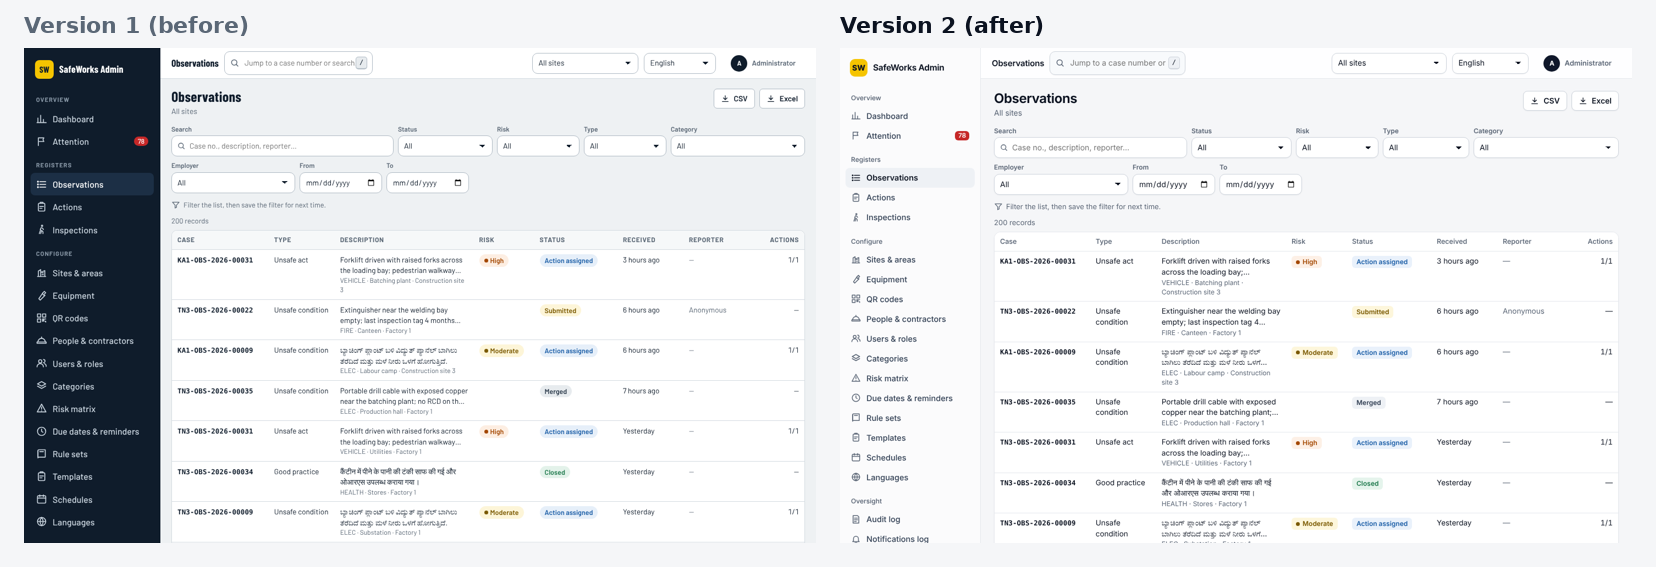
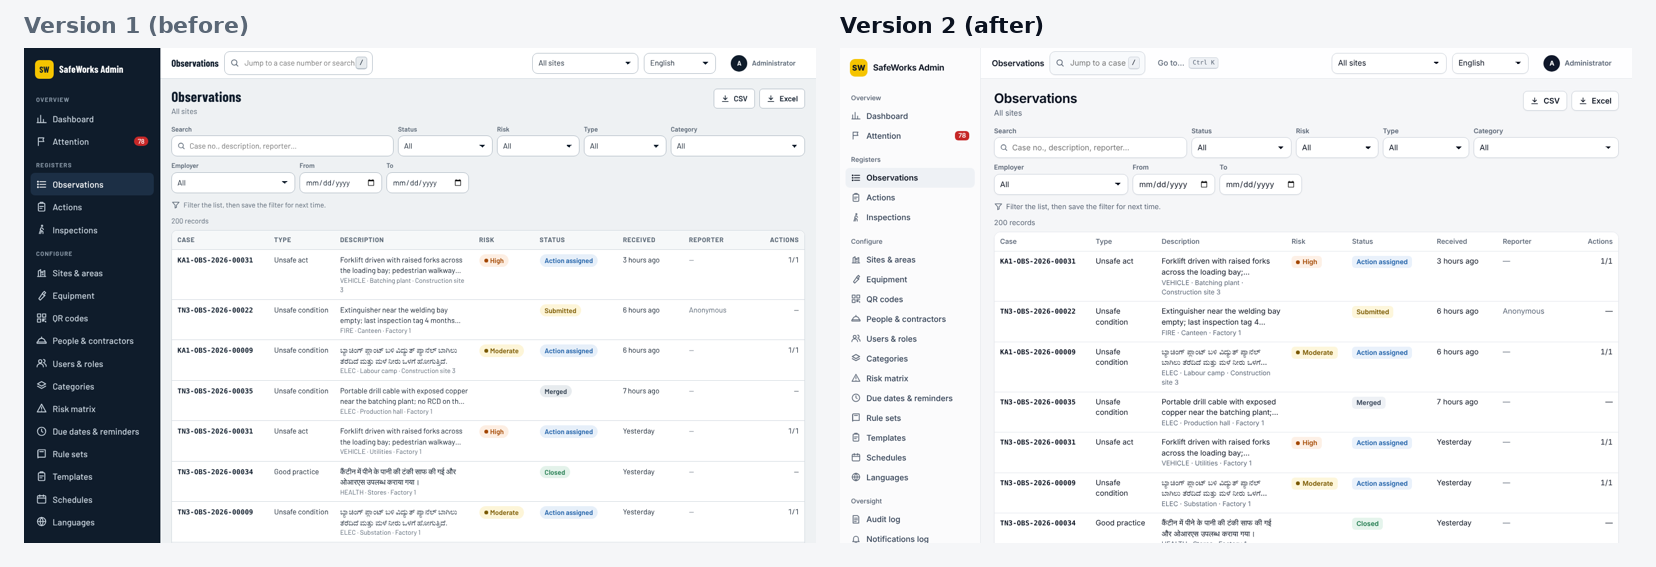
UI v2 test results: 758 of 771 plan cases pass, 0 fail; 125/125 screen cases; 84/84 end-to-end; final comparison images
Claude-Session: https://claude.ai/code/session_01XFtyHRNuE18PRnp5iovukg

Changed region(s): [[0.6467, 0.8395, 0.8623, 0.9594], [0.6775, 0.0899, 0.7391, 0.1199]]

diff --git a/portal/docs/TEST-RESULTS.md b/portal/docs/TEST-RESULTS.md
@@ -1,13 +1,13 @@
 # SafeWorks Portal 2.1: test results
 
-Run on 2026-11-04 19:03 UTC against a fresh demo database with `portal/e2e/run_test_plan.py` (API and timed-job cases), `portal/e2e/ui_plan.cjs` (screen cases) and `portal/e2e/e2e-real.cjs` (end-to-end browser run). Test cases are those of `portal/docs/TEST-PLAN.md`.
+Run on 2026-11-04 19:17 UTC against a fresh demo database with `portal/e2e/run_test_plan.py` (API and timed-job cases), `portal/e2e/ui_plan.cjs` (screen cases) and `portal/e2e/e2e-real.cjs` (end-to-end browser run). Test cases are those of `portal/docs/TEST-PLAN.md`.
 
 | | Count |
 |---|---|
 | Cases in the plan | 771 |
 | Run automatically (API, timed jobs and browser) | 758 |
-| Passed | 757 |
-| Failed | 1 |
+| Passed | 758 |
+| Failed | 0 |
 | Runner error | 0 |
 | Not automated (UI, timing or manual; see the browser run and the list below) | 13 |
 
@@ -756,7 +756,7 @@ Plan corrections (the system was right, the plan was not): EHS-INS-084/085 (only
 | EHS-ADM-261 | Notifications log — Open | PASS |  |
 | EHS-ADM-262 | Console menu → Notifications log ⚠ F5 — Menu item | PASS |  |
 | EHS-ADM-290 | Console menu → Health ⚠ F6 — Menu item | PASS |  |
-| EHS-ADM-291 | Console → any page — Command menu (UI v2) | FAIL | browser: locator.waitFor: Timeout 12000ms exceeded. Call log: [2m - waiting for locator('[data-testid="command-menu"]') to be visible[22m  |
+| EHS-ADM-291 | Console → any page — Command menu (UI v2) | PASS | browser |
 | EHS-WF1-01 | Field app → Report — Unsafe condition + 1 photo | PASS |  |
 | EHS-WF1-02 | Notifications — New report alert | PASS |  |
 | EHS-WF1-03 | Console → Dashboard — Triage backlog | PASS |  |
